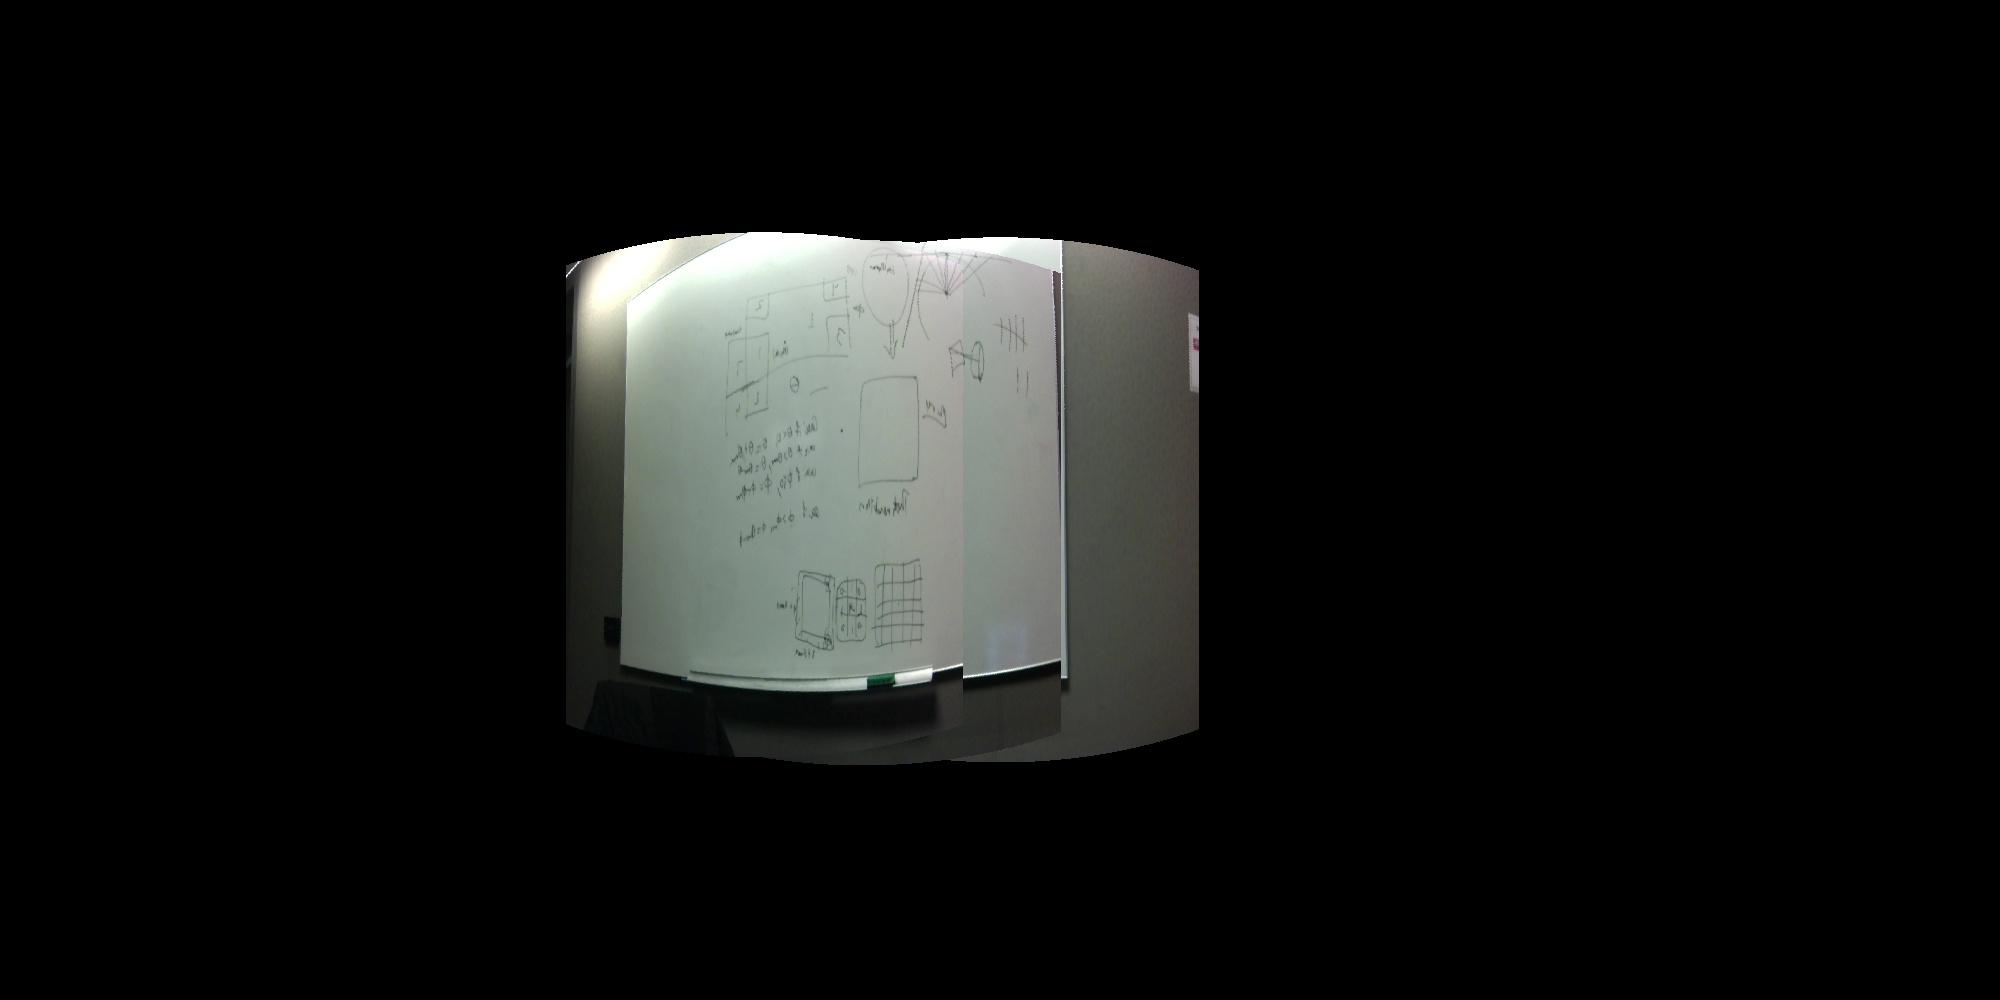
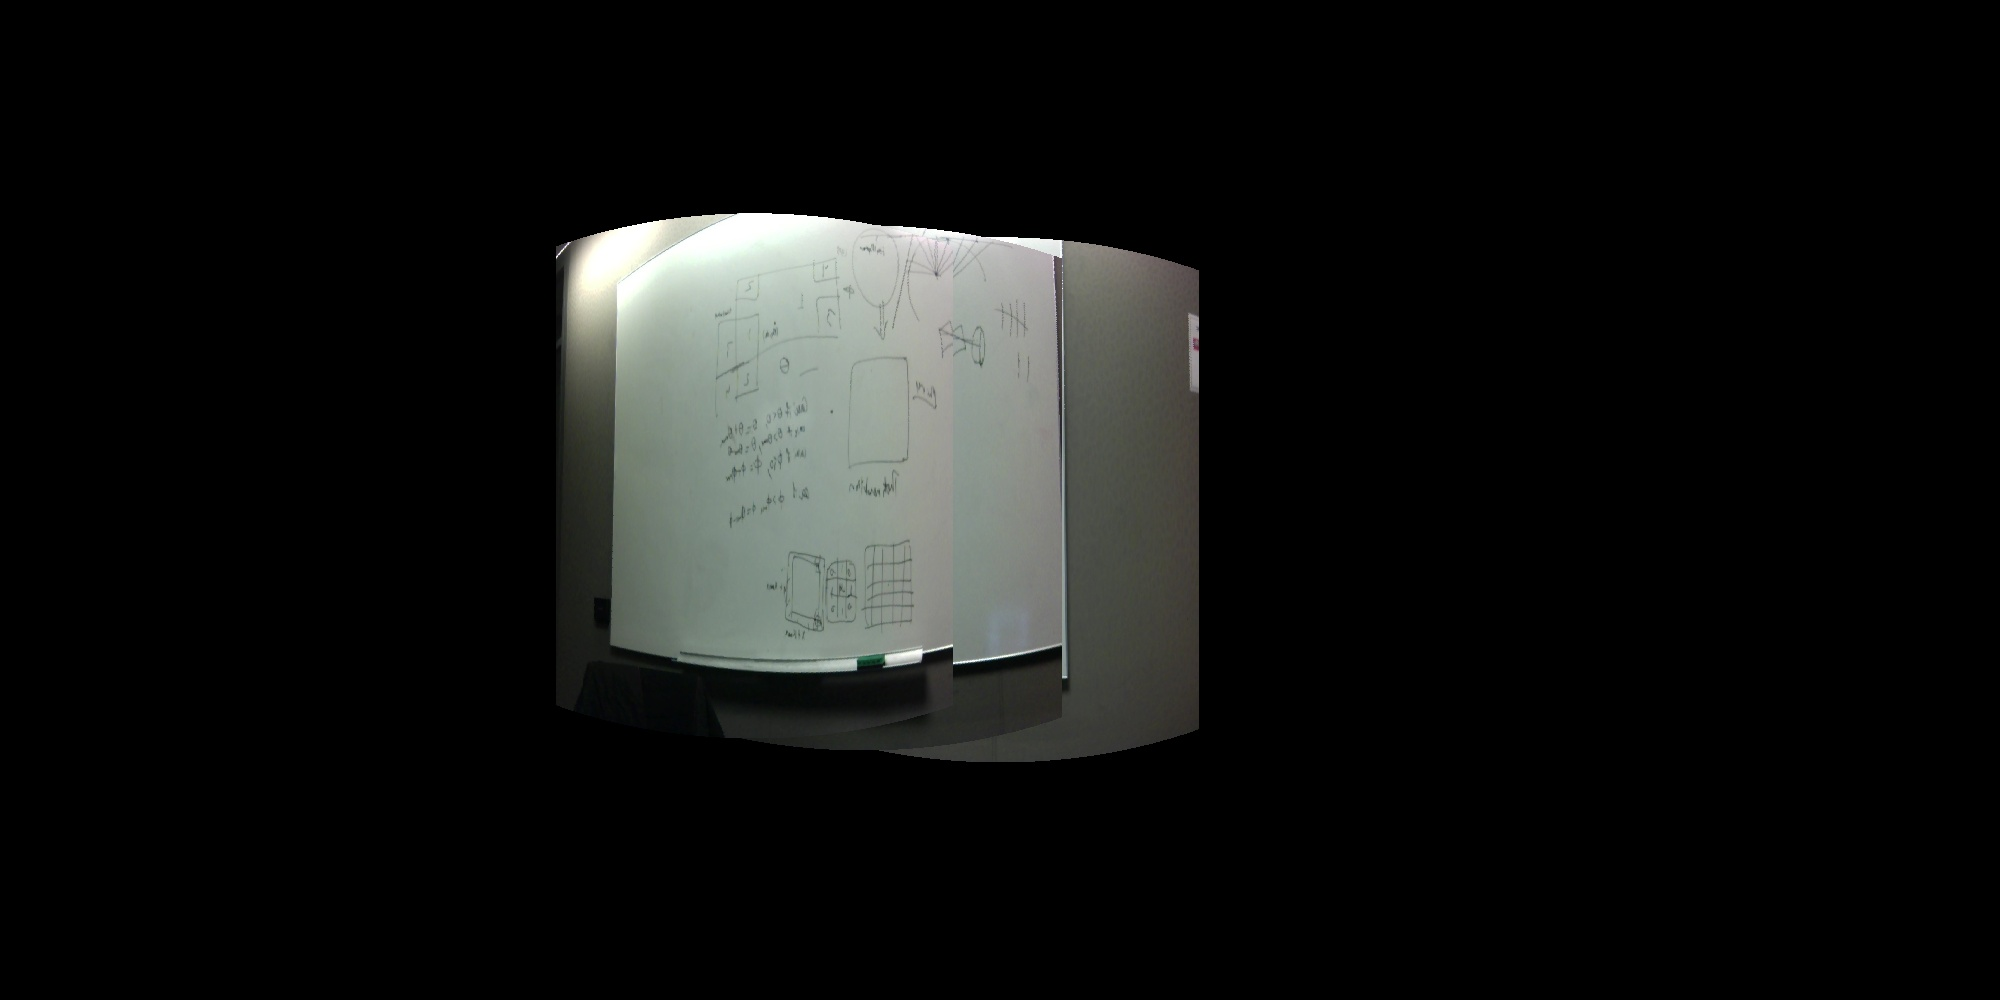
Reflection expansion working

diff --git a/src/panoramic/Panoramic.cpp b/src/panoramic/Panoramic.cpp
@@ -86,10 +86,27 @@ bool Panoramic::stitch(SphericalStitchRequest& req, SphericalStitchResponse& res
     }
   }
 
-  blend_sphere(image_queue, sphere, s_transforms, phi_res, theta_res);
-
   std::string p_path = ros::package::getPath("panoramic");
   std::stringstream ss;
+
+  std::vector<WarpedPair> reflected;
+  generate_reflected_images(image_queue, reflected, s_transforms, phi_res, theta_res);
+  for(int i = 0; i < reflected.size(); i++) {
+    ROS_INFO("Reflected %d: (%d, %d)", i, reflected[i].first.rows, reflected[i].first.cols);
+    ss.clear();
+    ss.str( std::string() );
+    ss << p_path << "/res/images/reflected_im_" << i << ".jpg";
+    cv::imwrite(ss.str().c_str(), reflected[i].first);
+    ss.clear();
+    ss.str( std::string() );
+    ss << p_path << "/res/images/reflected_mask_" << i << ".jpg";
+    cv::imwrite(ss.str().c_str(), reflected[i].second);
+  }
+
+  // blend_sphere(image_queue, sphere, s_transforms, phi_res, theta_res);
+
+  ss.clear();
+  ss.str( std::string() );
   ss << p_path << "/res/images/mask.jpg";
   cv::imwrite(ss.str().c_str(), image_queue[0].second);
   
@@ -101,12 +118,81 @@ bool Panoramic::stitch(SphericalStitchRequest& req, SphericalStitchResponse& res
   return true;
 }
 
-/*void Panoramic::generated_reflected_images(std::vector<WarpedPair>& warped_inputs, std::vector<WarpedPair>& reflected, int expansion)
+void Panoramic::generate_reflected_images(std::vector<WarpedPair>& warped_inputs, std::vector<WarpedPair>& reflected, std::vector<SphericalTransform>& s_transforms,  int phi_res, int theta_res, int expansion)
 {
+  ROS_INFO("Generating reflected images.");
+  // Wrap the images around an expanded sphere to blending
+  SphericalTransform t(0,0);
   for(int i = 0; i < warped_inputs.size(); i++) {
-    cv::Mat expanded_image, expanded_mask;
+    // Size is set in width, height format
+    cv::Size sphere_s( 2 * theta_res, phi_res );
+    cv::Mat expanded_image( sphere_s.height + 2 * expansion, sphere_s.width + 2 * expansion, warped_inputs[i].first.type() );
+    cv::Mat expanded_mask( sphere_s.height + 2 * expansion, sphere_s.width + 2 * expansion, warped_inputs[i].second.type() );
+    int hc_phi = warped_inputs[i].first.rows/2;
+    int hc_theta = warped_inputs[i].first.cols/2;
+    int sc_phi = sphere_s.height/2;
+    int sc_theta = sphere_s.width/2;
+    for(int phi_index = 0; phi_index < warped_inputs[i].first.rows; phi_index++) {
+      for(int theta_index = 0; theta_index < warped_inputs[i].first.cols; theta_index++) {
+        int phi_shift = (t.phi_+phi_index-hc_phi+sc_phi) % sphere_s.height;
+        int theta_shift = (t.theta_+theta_index-hc_theta+sc_theta) % sphere_s.width;
+        if(phi_shift < 0)
+          phi_shift += sphere_s.height;
+        else if(phi_shift >= sphere_s.height)
+          phi_shift = sphere_s.height - phi_shift;
+        if(theta_shift < 0)
+          theta_shift += sphere_s.width;
+        else if(theta_shift >= sphere_s.width)
+          theta_shift = sphere_s.width - theta_shift;
+
+        // Check if there needs to be a reflection
+        bool phi_reflected = (phi_shift <= expansion || (sphere_s.height-phi_shift) <= expansion);
+        bool theta_reflected = (theta_shift <= expansion || (sphere_s.width-theta_shift) <= expansion);
+        bool reflected = phi_reflected || theta_reflected;
+        int reflectp_phi, reflectp_theta;
+        if(reflected) {
+          if(phi_reflected) {
+            if( phi_shift <= expansion )
+              reflectp_phi = sphere_s.height+phi_shift;
+            else if( (sphere_s.height-phi_shift) <= expansion )
+              reflectp_phi = (phi_shift-sphere_s.height);
+            else 
+              reflectp_phi = phi_shift;
+          }
+          if(theta_reflected) {
+            if( theta_shift <= expansion )
+              reflectp_theta = sphere_s.width+theta_shift;
+            else if( (sphere_s.width-theta_shift) <= expansion )
+              reflectp_theta = (theta_shift-sphere_s.width);
+            else
+              reflectp_theta = theta_shift;
+          }
+          if(warped_inputs[i].second.at<uchar>(phi_index, theta_index) != 0) {
+            expanded_image.at<cv::Vec3b>(reflectp_phi, reflectp_theta) = warped_inputs[i].first.at<cv::Vec3b>(phi_index, theta_index);
+            expanded_mask.at<uchar>(reflectp_phi, reflectp_theta) = warped_inputs[i].second.at<uchar>(phi_index, theta_index);
+          }
+        }
+
+        // Check the mask to make sure that this is part of the warped image and assign if so
+        if(warped_inputs[i].second.at<uchar>(phi_index, theta_index) != 0) {
+          expanded_image.at<cv::Vec3b>(phi_shift, theta_shift) = warped_inputs[i].first.at<cv::Vec3b>(phi_index, theta_index);
+          expanded_mask.at<uchar>(phi_shift, theta_shift) = warped_inputs[i].second.at<uchar>(phi_index, theta_index);
+        }
+      }
+    }
+
+    if(i < s_transforms.size()) {
+      t.phi_ += s_transforms[i].phi_;
+      t.theta_ += s_transforms[i].theta_;
+    }
+
+    WarpedPair wp_t;
+    wp_t.first = expanded_image;
+    wp_t.second = expanded_mask;
+    reflected.push_back( wp_t );
+    ROS_INFO("Expanded size: (%d, %d)", reflected.back().first.rows, reflected.back().first.cols);
   }
-}*/
+}
 
 void Panoramic::blend_sphere(std::vector<WarpedPair>& warped_inputs, cv::Mat& sphere, std::vector<SphericalTransform>& s_transforms, int phi_res, int theta_res)
 {
@@ -176,7 +262,7 @@ cv::Mat Panoramic::warp_to_hsphere(cv::Mat& input, int phi_res, int theta_res, i
 
       // Map
       warp.at<cv::Vec3b>(phi, theta) = scaled_input.at<cv::Vec3b>(y, x);
-      mask.at<unsigned char>(phi, theta) = 255;
+      mask.at<uchar>(phi, theta) = 255;
     }
   } 
 
@@ -211,7 +297,7 @@ void Panoramic::hsphere_to_sphere(WarpedPair& hsphere, cv::Mat& sphere, Spherica
         theta_shift = sphere.cols - theta_shift;
 
       // Check the mask to make sure that this is part of the warped image and assign if so
-      if(hsphere.second.at<unsigned char>(phi_index, theta_index) != 0) {
+      if(hsphere.second.at<uchar>(phi_index, theta_index) != 0) {
         sphere.at<cv::Vec3b>(phi_shift, theta_shift) = hsphere.first.at<cv::Vec3b>(phi_index, theta_index);
       }
     }

diff --git a/include/panoramic/Panoramic.hpp b/include/panoramic/Panoramic.hpp
@@ -51,6 +51,7 @@ public:
   typedef std::vector<cv::KeyPoint> KeyPoints;
   typedef std::pair<cv::Mat, cv::Mat> WarpedPair;
   typedef std::vector< std::vector<WarpedPair> > Pyramid;
+  typedef unsigned char uchar;
 
   Panoramic();
   ~Panoramic();
@@ -63,7 +64,7 @@ public:
   void generate_image_transforms(cv::Mat& sphere, std::vector<WarpedPair>& warped_inputs, std::vector<SphericalTransform>& relative_transforms, int phi_res, int theta_res);
   void hsphere_to_sphere(WarpedPair& hsphere, cv::Mat& sphere, SphericalTransform& s_transform, int theta_res, int phi_res);
   void blend_sphere(std::vector<WarpedPair>& warped_inputs, cv::Mat& sphere, std::vector<SphericalTransform>& s_transforms, int phi_res, int theta_res);
-  void generate_reflected_images(std::vector<WarpedPair>& warped_inputs, std::vector<WarpedPair>& reflected, int expansion = 4, int phi_res, int theta_res);
+  void generate_reflected_images(std::vector<WarpedPair>& warped_inputs, std::vector<WarpedPair>& reflected, std::vector<SphericalTransform>& s_transforms, int phi_res, int theta_res, int expansion = 4);
 
 };
 
